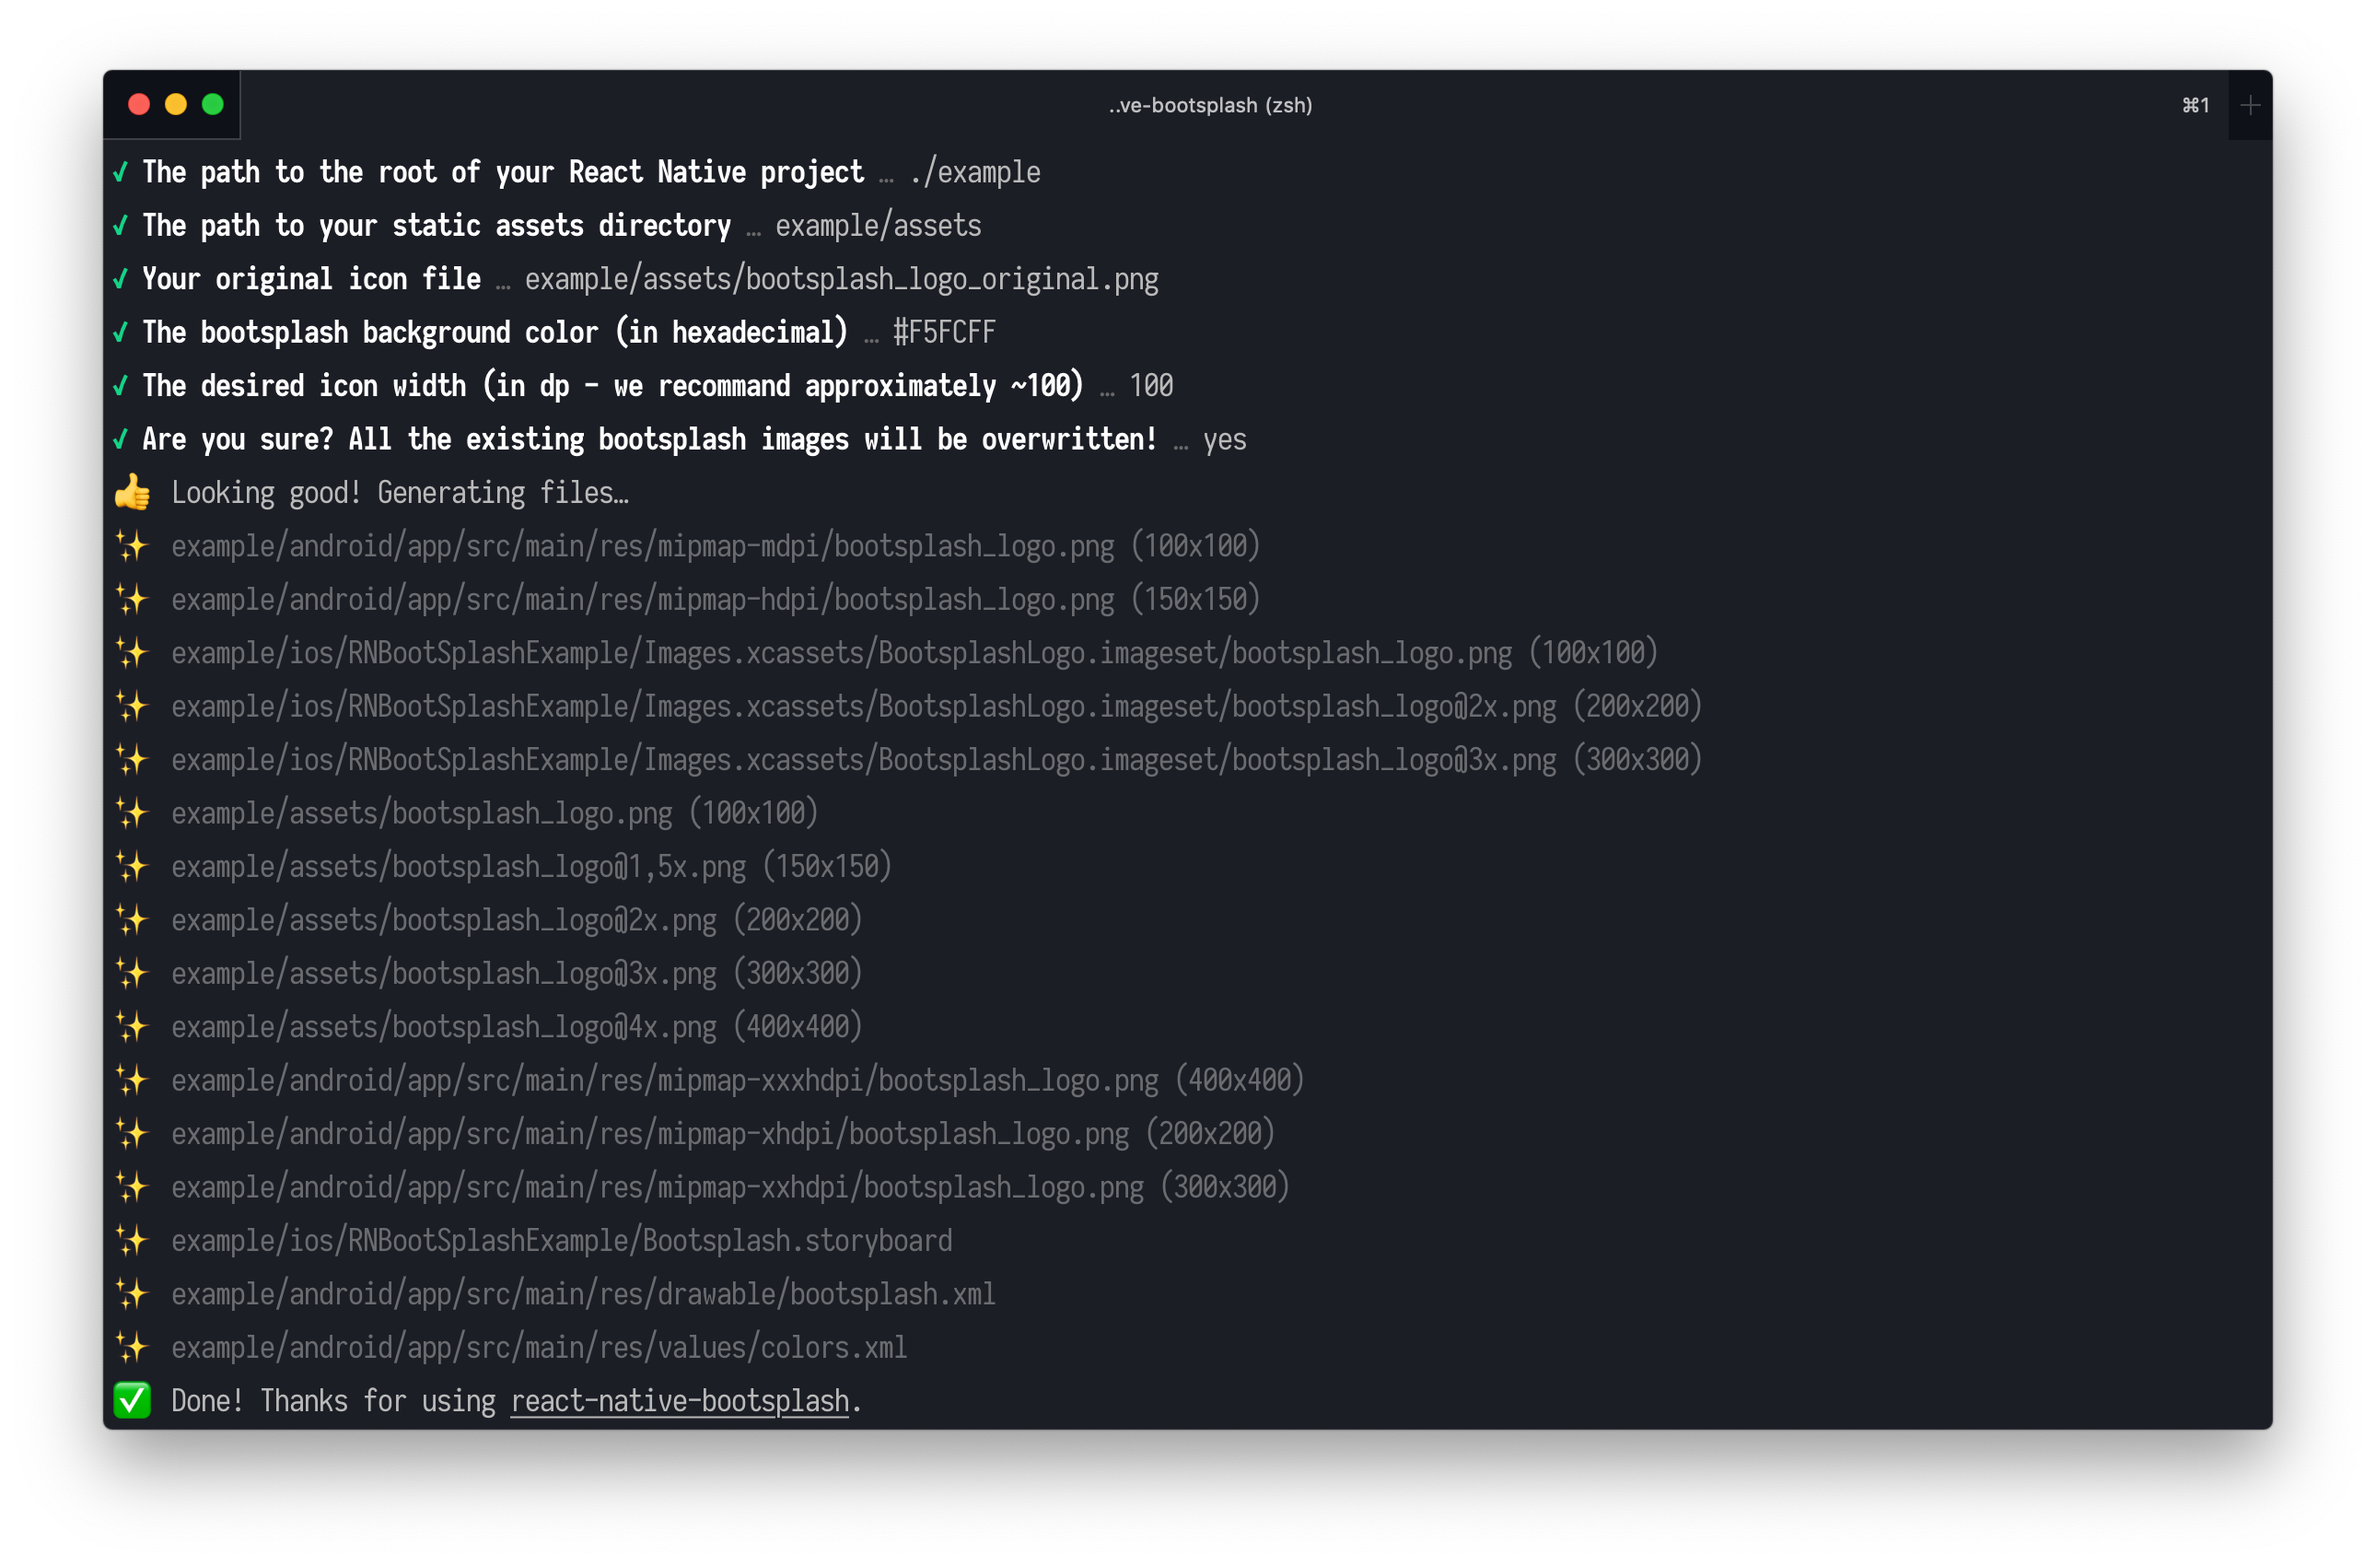
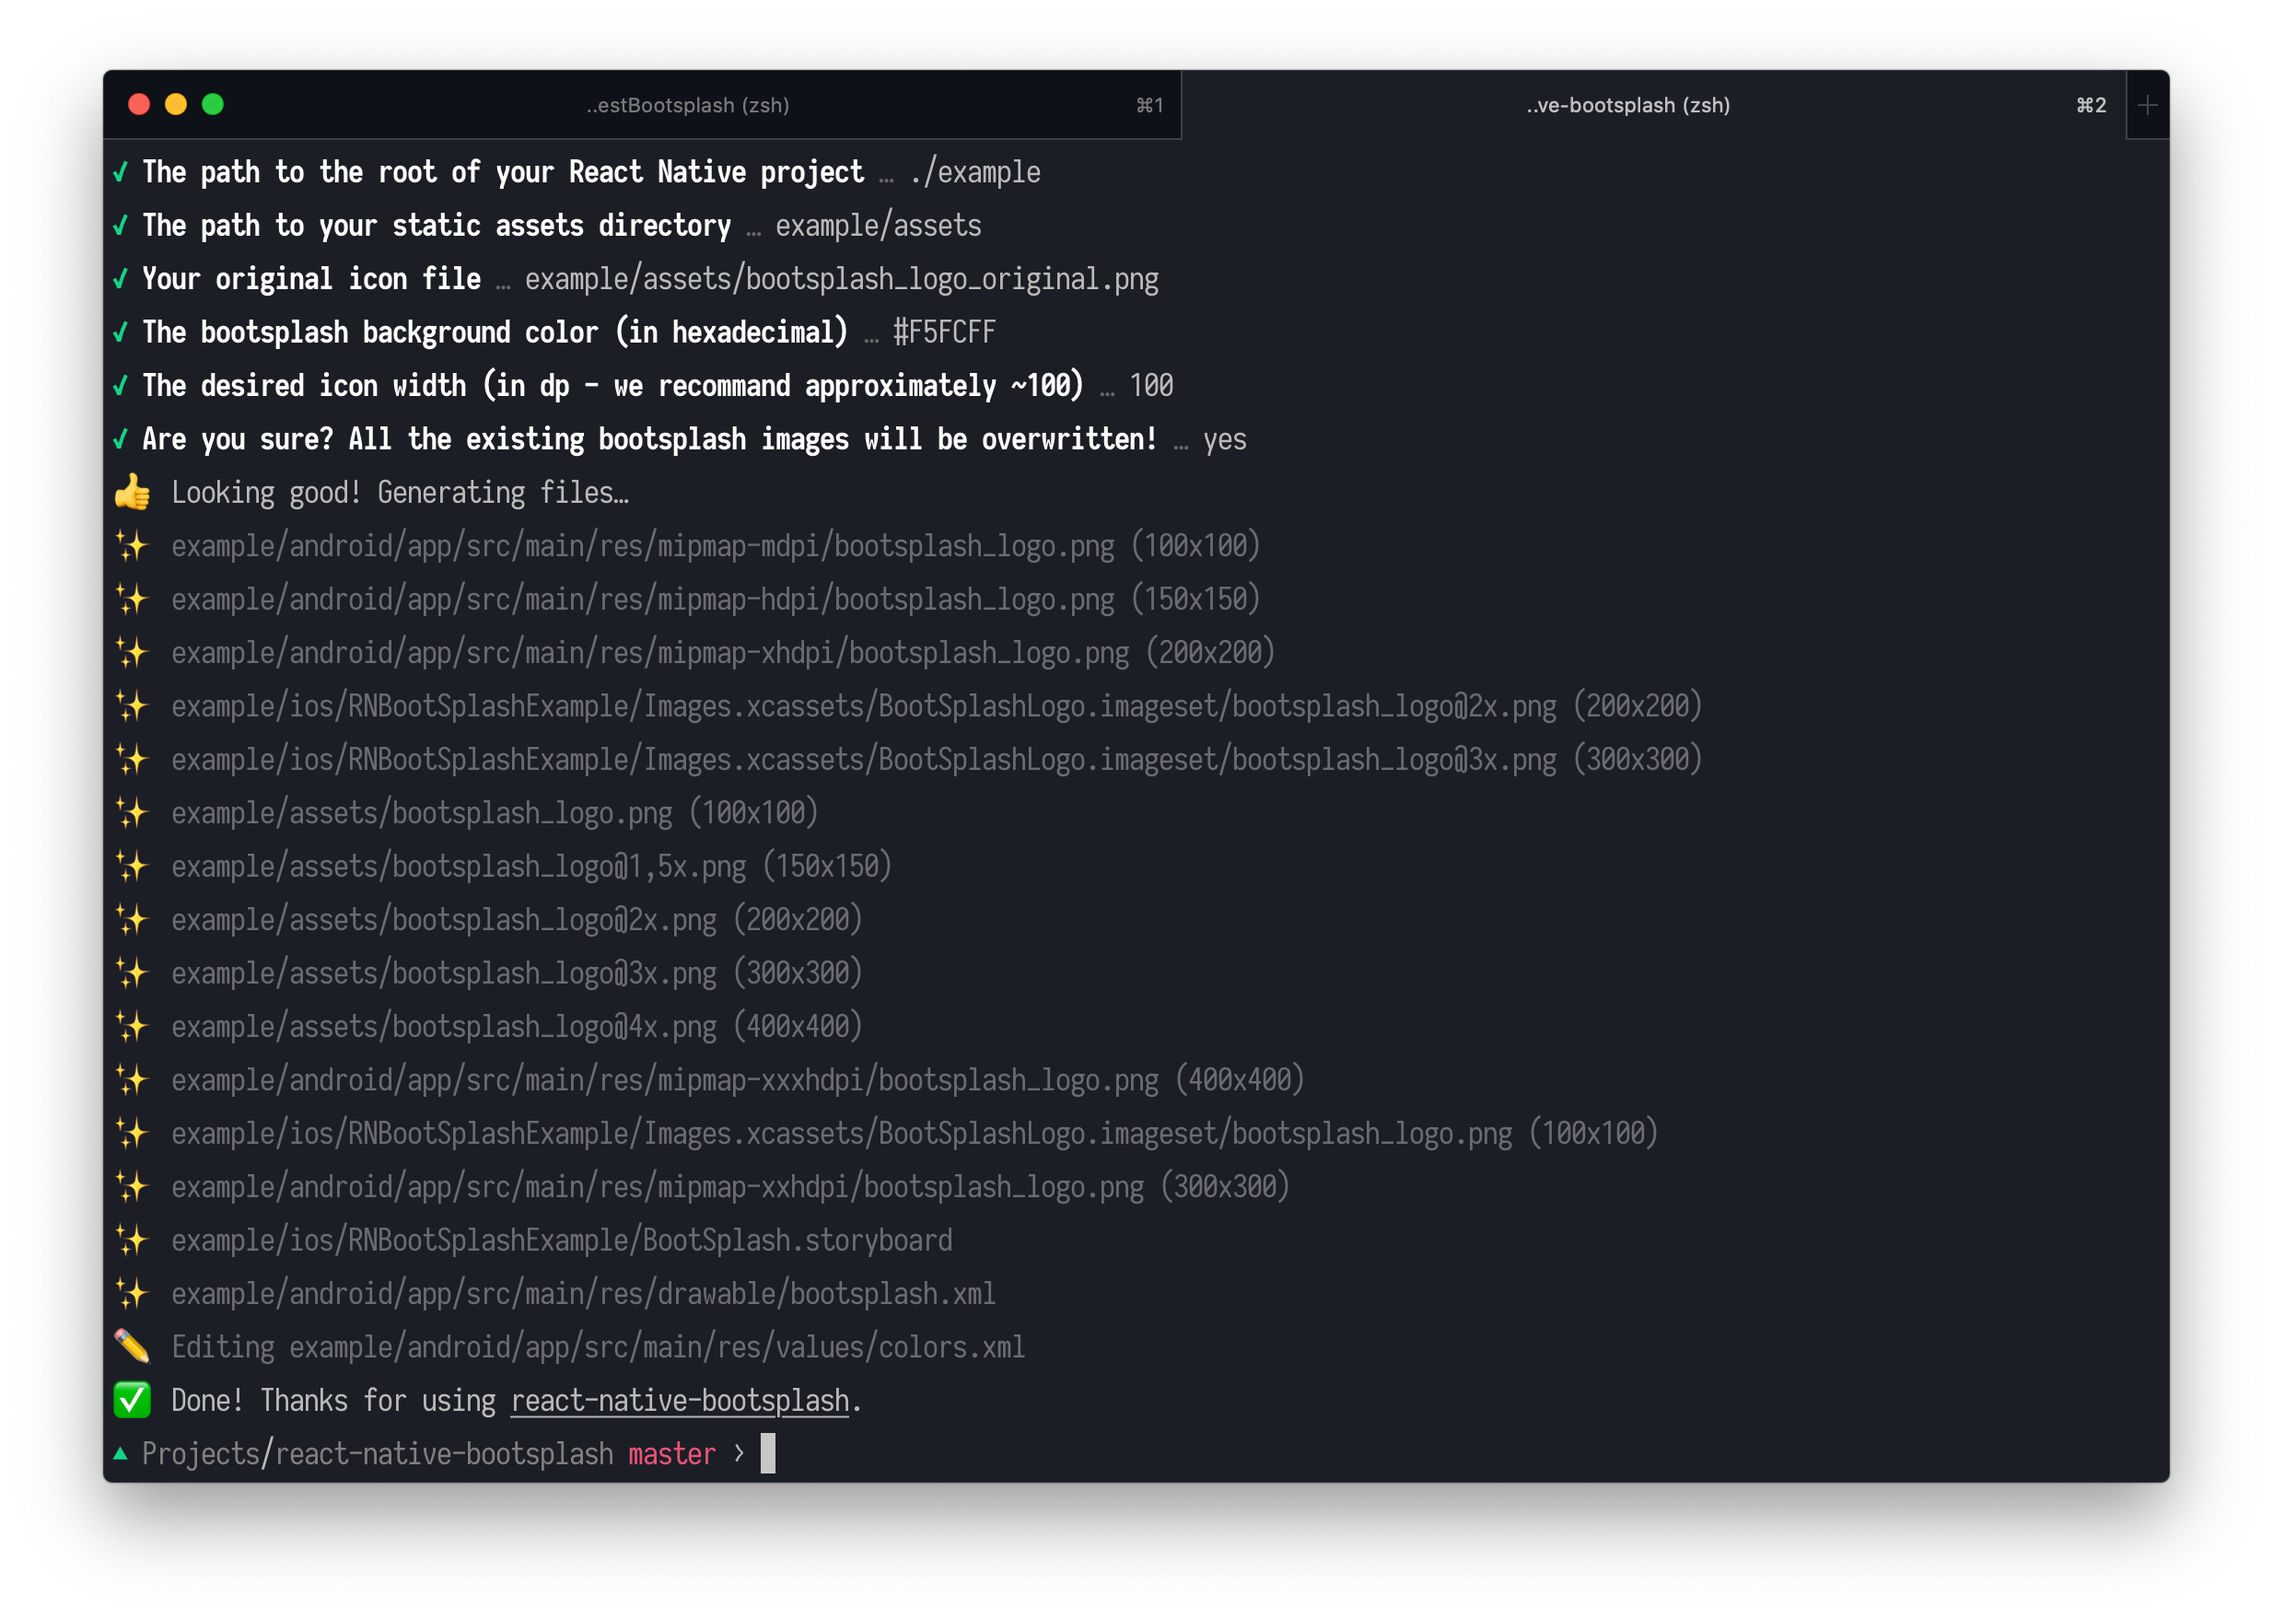
Enforce case consistency

diff --git a/scripts/generate.js b/scripts/generate.js
@@ -11,7 +11,7 @@ const prompts = require("prompts");
 let projectName;
 
 const logoFileName = "bootsplash_logo";
-const xcassetName = "BootsplashLogo";
+const xcassetName = "BootSplashLogo";
 const androidColorRegex = /<color name="bootsplash_background">#\w+<\/color>/g;
 
 const initialProjectPath = path.join(
@@ -296,7 +296,7 @@ async function generate({
   const iosImagesPath = path.join(iosProjectPath, "Images.xcassets");
 
   if (fs.existsSync(iosImagesPath)) {
-    const iosImageSetPath = path.join(iosImagesPath, "BootsplashLogo.imageset");
+    const iosImageSetPath = path.join(iosImagesPath, `${xcassetName}.imageset`);
     ensureDir(iosImageSetPath);
 
     fs.writeFileSync(
@@ -337,7 +337,7 @@ async function generate({
   );
 
   if (fs.existsSync(iosProjectPath)) {
-    const storyboard = path.join(iosProjectPath, "Bootsplash.storyboard");
+    const storyboard = path.join(iosProjectPath, `BootSplash.storyboard`);
 
     fs.writeFileSync(
       storyboard,

diff --git a/example/ios/RNBootSplashExample/AppDelegate.m b/example/ios/RNBootSplashExample/AppDelegate.m
@@ -30,7 +30,7 @@
   self.window.rootViewController = rootViewController;
   [self.window makeKeyAndVisible];
 
-  [RNBootSplash initWithStoryboard:@"Bootsplash" viewController:rootViewController];
+  [RNBootSplash initWithStoryboard:@"BootSplash" viewController:rootViewController];
 
   return YES;
 }

diff --git a/README.md b/README.md
@@ -119,10 +119,10 @@ This tool relies on the naming conventions that are used in the `/example` proje
 <PROJECT_ROOT>/assets/bootsplash_logo@3x.png
 <PROJECT_ROOT>/assets/bootsplash_logo@4x.png
 
-<PROJECT_ROOT>/ios/RNBootSplashExample/Bootsplash.storyboard
-<PROJECT_ROOT>/ios/RNBootSplashExample/Images.xcassets/BootsplashLogo.imageset/bootsplash_logo.png
-<PROJECT_ROOT>/ios/RNBootSplashExample/Images.xcassets/BootsplashLogo.imageset/bootsplash_logo@2x.png
-<PROJECT_ROOT>/ios/RNBootSplashExample/Images.xcassets/BootsplashLogo.imageset/bootsplash_logo@3x.png
+<PROJECT_ROOT>/ios/RNBootSplashExample/BootSplash.storyboard
+<PROJECT_ROOT>/ios/RNBootSplashExample/Images.xcassets/BootSplashLogo.imageset/bootsplash_logo.png
+<PROJECT_ROOT>/ios/RNBootSplashExample/Images.xcassets/BootSplashLogo.imageset/bootsplash_logo@2x.png
+<PROJECT_ROOT>/ios/RNBootSplashExample/Images.xcassets/BootSplashLogo.imageset/bootsplash_logo@3x.png
 ```
 
 ### iOS
@@ -147,12 +147,12 @@ Edit the `ios/YourProjectName/AppDelegate.m` file:
   // …
 
   [self.window makeKeyAndVisible];
-  [RNBootSplash initWithStoryboard:@"Bootsplash" viewController:rootViewController]; // <- display the generated Bootsplash.storyboard over our rootViewController
+  [RNBootSplash initWithStoryboard:@"BootSplash" viewController:rootViewController]; // <- display the generated BootSplash.storyboard over our rootViewController
   return YES;
 }
 ```
 
-Set the `Bootsplash.storyboard` as launch screen file:
+Set the `BootSplash.storyboard` as launch screen file:
 
 | Drag and drop the file                                                                                  | Create folder reference                                                                                 | Set as Launch Screen File                                                                               |
 | ------------------------------------------------------------------------------------------------------- | ------------------------------------------------------------------------------------------------------- | ------------------------------------------------------------------------------------------------------- |
